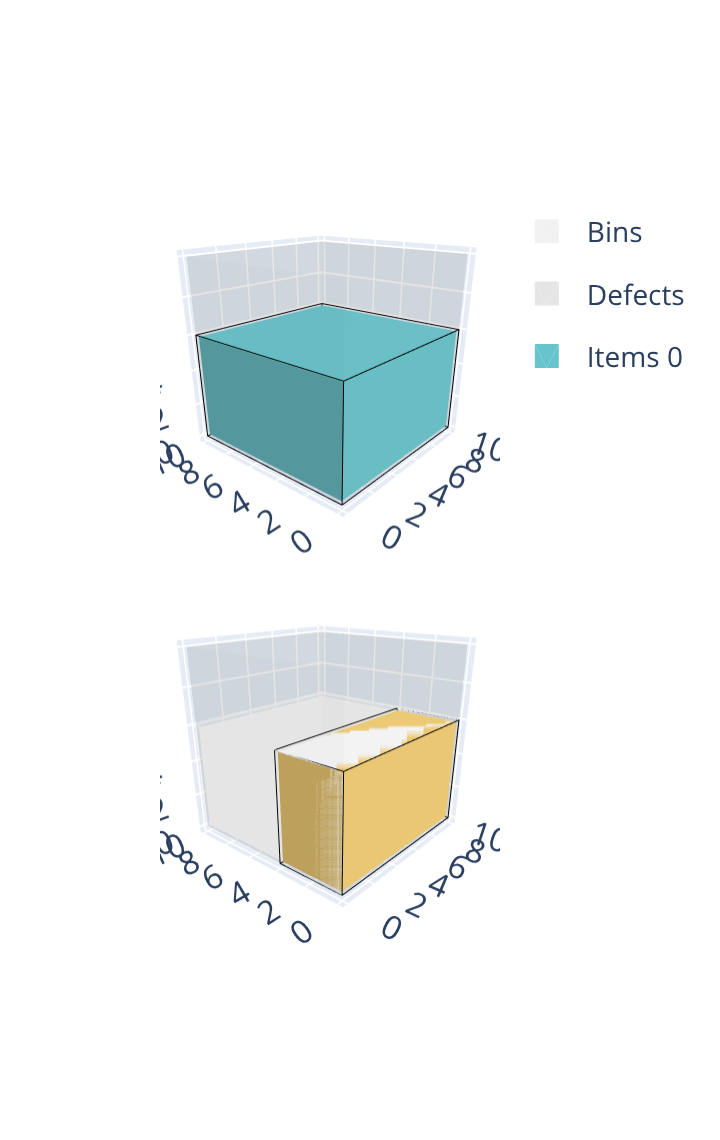
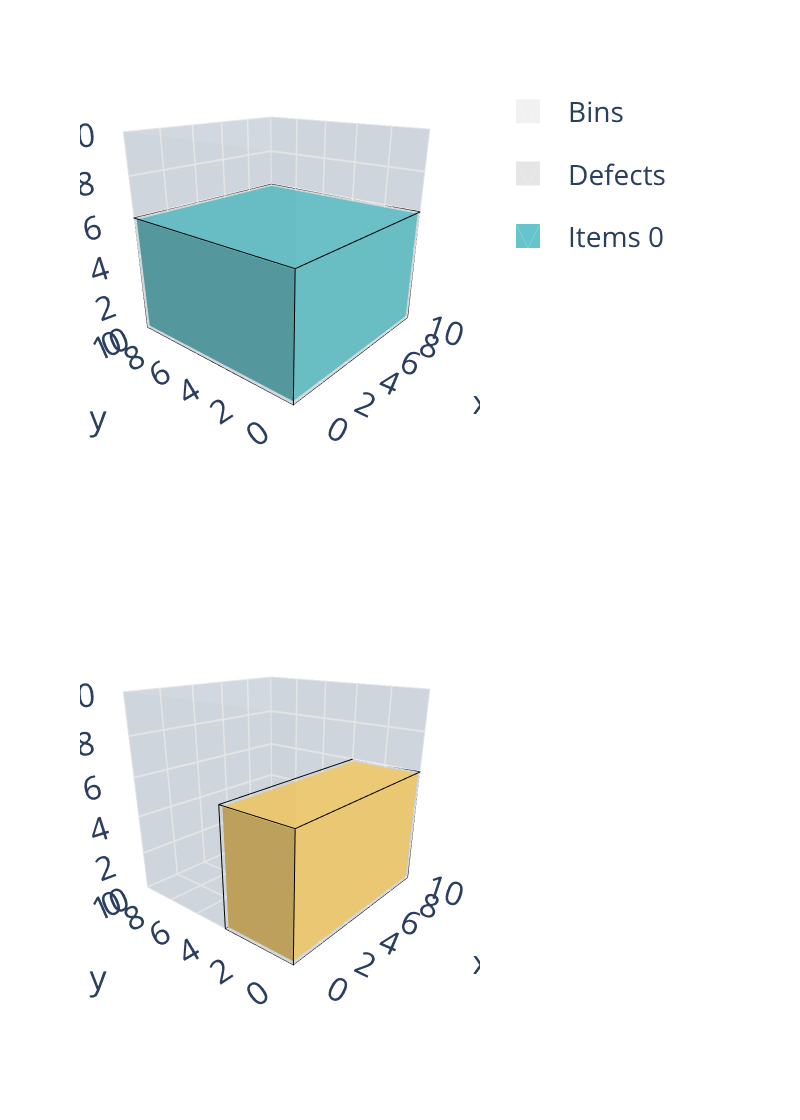
visualize: export each bin of a box solution separately
In a plotly figure with several 3D scenes, the depth of the items of a
scene may hide the items of the next ones: in the PNG exports of the box
solutions with several bins, the items of the second bin were partly
hidden where the items of the first bin are.

- 'packingsolver.visualize.box.figure' gets a 'bins' parameter to draw
  only some bins, at the scale of all the bins.
- 'scripts/visualize_box.py' exports each bin as a separate figure, with
  fixed margins, and assembles the images in a grid.
- Regenerate the images of the rotation and maximum weight examples.

diff --git a/scripts/visualize_box.py b/scripts/visualize_box.py
@@ -24,34 +24,67 @@ parser.add_argument('--autocrop', action='store_true', help='crop exported PNG t
 parser.add_argument('--no-legend', action='store_true', help='hide the legend, freeing up space for the plot itself')
 args = parser.parse_args()
 
-fig = visualize_box.figure(
-        args.csvpath,
-        item_color=args.itemcolor,
-        columns=args.columns,
-        zoom=args.zoom,
-        legend=not args.no_legend)
-
 if args.output:
-    bin_traces = [trace for trace in fig.data if trace.name == "Bins"]
-    m = len(bin_traces)
+    import csv
+    import io
+    from PIL import Image, ImageChops
+
+    # Each bin is exported as a separate figure, and the images are assembled
+    # in a grid: in a figure with several 3D scenes, the depth of the items
+    # of a scene may hide the items of the next ones.
+    with open(args.csvpath, newline='') as csvfile:
+        rows = list(csv.DictReader(csvfile))
+    bins = [row for row in rows if row["TYPE"] == "BIN"]
+    m = len(bins)
     number_of_cols = args.columns if args.columns is not None else math.ceil(math.sqrt(m))
     number_of_rows = math.ceil(m / number_of_cols)
-    max_bin_lx = max([0] + [max(trace.x) - min(trace.x) for trace in bin_traces])
-    max_bin_ly = max([0] + [max(trace.y) - min(trace.y) for trace in bin_traces])
-    cell_width = int(max_bin_lx * args.scale)
-    cell_height = int(max_bin_ly * args.scale)
-    export_width = args.width if args.width is not None else number_of_cols * cell_width + 160
-    export_height = args.height if args.height is not None else number_of_rows * cell_height + 170
-    fig.write_image(args.output, width=export_width, height=export_height, scale=2)
+    max_bin_lx = max([0] + [int(row["LX"]) for row in bins])
+    max_bin_ly = max([0] + [int(row["LY"]) for row in bins])
+    # Size of the plot area of each bin, and fixed margins, with room on the
+    # right for the legend, so that the scenes have the same size whether
+    # their figure has the legend or not.
+    margin_left, margin_top, margin_bottom = 40, 40, 40
+    margin_right = 40 if args.no_legend else 160
+    plot_width = int(max_bin_lx * args.scale)
+    plot_height = int(max_bin_ly * args.scale)
+    if args.width is not None:
+        plot_width = (args.width - margin_left - margin_right) // number_of_cols
+    if args.height is not None:
+        plot_height = (args.height - margin_top - margin_bottom) // number_of_rows
+    image_width = plot_width + margin_left + margin_right
+    image_height = plot_height + margin_top + margin_bottom
+    images = []
+    for bin_pos in range(m):
+        fig = visualize_box.figure(
+                args.csvpath,
+                item_color=args.itemcolor,
+                columns=1,
+                zoom=args.zoom,
+                legend=(not args.no_legend and bin_pos == 0),
+                bins=[bin_pos])
+        fig.update_layout(margin=dict(
+                l=margin_left, r=margin_right, t=margin_top, b=margin_bottom))
+        stream = io.BytesIO(fig.to_image(
+                format="png", width=image_width, height=image_height, scale=2))
+        images.append(Image.open(stream).convert("RGB"))
+    image_width, image_height = images[0].size
+    im = Image.new("RGB", (number_of_cols * image_width, number_of_rows * image_height), (255, 255, 255))
+    for bin_pos, image in enumerate(images):
+        im.paste(image, ((bin_pos % number_of_cols) * image_width, (bin_pos // number_of_cols) * image_height))
     if args.autocrop:
-        from PIL import Image, ImageChops
         margin = 20
-        im = Image.open(args.output).convert("RGB")
         bbox = ImageChops.difference(im, Image.new("RGB", im.size, (255, 255, 255))).getbbox()
         if bbox is not None:
             x1, y1, x2, y2 = bbox
             x1, y1 = max(0, x1 - margin), max(0, y1 - margin)
             x2, y2 = min(im.width, x2 + margin), min(im.height, y2 + margin)
-            im.crop((x1, y1, x2, y2)).save(args.output)
+            im = im.crop((x1, y1, x2, y2))
+    im.save(args.output)
 else:
+    fig = visualize_box.figure(
+            args.csvpath,
+            item_color=args.itemcolor,
+            columns=args.columns,
+            zoom=args.zoom,
+            legend=not args.no_legend)
     fig.show()

diff --git a/python/packingsolver/visualize/box.py b/python/packingsolver/visualize/box.py
@@ -25,7 +25,8 @@ def figure(
         item_color="ID",
         columns=None,
         zoom=1.0,
-        legend=True):
+        legend=True,
+        bins=None):
     """Build the figure of a box solution certificate.
 
     Args:
@@ -36,6 +37,8 @@ def figure(
         zoom: camera zoom factor (higher: closer/bigger)
         legend: show the legend; if False, hide the legend, freeing up space
             for the plot itself
+        bins: positions of the bins to draw, all of them by default; the
+            scale is the one of all the bins of the certificate
 
     Returns:
         plotly.graph_objects.Figure
@@ -168,7 +171,8 @@ def figure(
                 item_ids_z[i].append((z1 + z2) / 2)
                 item_ids[i].append(id_)
 
-    m = len(bins_x)
+    bin_positions = list(range(len(bins_x))) if bins is None else list(bins)
+    m = len(bin_positions)
     colors = px.colors.qualitative.Pastel
     number_of_cols = columns if columns is not None else math.ceil(math.sqrt(m))
     number_of_rows = math.ceil(m / number_of_cols)
@@ -179,9 +183,9 @@ def figure(
             specs=[[{'type': 'mesh3d'} for _ in range(number_of_cols)] for _ in range(number_of_rows)],
             vertical_spacing=0.001)
 
-    for i in range(0, m):
-        row = (i // number_of_cols) + 1
-        col = (i % number_of_cols) + 1
+    for subplot_pos, i in enumerate(bin_positions):
+        row = (subplot_pos // number_of_cols) + 1
+        col = (subplot_pos % number_of_cols) + 1
 
         fig.add_trace(go.Mesh3d(
             x=bins_x[i],
@@ -192,7 +196,7 @@ def figure(
             k=bins_k[i],
             name="Bins",
             legendgroup="bins",
-            showlegend=(i == 0),
+            showlegend=(subplot_pos == 0),
             opacity=0.1,
             color="grey",
             flatshading=True),
@@ -208,7 +212,7 @@ def figure(
             k=defects_k[i],
             name="Defects",
             legendgroup="defects",
-            showlegend=(i == 0),
+            showlegend=(subplot_pos == 0),
             opacity=0.2,
             color="grey",
             flatshading=True),
@@ -229,7 +233,7 @@ def figure(
                 k=items_k[i][k],
                 name="Items" if item_color == 'SAME' else f"Items {item_ids[i][k]}",
                 legendgroup="items",
-                showlegend=(i == 0 and k == 0),
+                showlegend=(subplot_pos == 0 and k == 0),
                 opacity=1,
                 flatshading=True,
                 color=color),

diff --git a/python/tests/test_visualize_box.py b/python/tests/test_visualize_box.py
@@ -68,3 +68,20 @@ def test_figure_options():
 def test_figure_unknown_item_color():
     with pytest.raises(ValueError):
         figure(certificate_path(CERTIFICATES[0]), item_color="FOO")
+
+
+def test_figure_bins():
+    path = certificate_path(CERTIFICATES[1])
+    number_of_bins, _ = count_rows(path)
+    assert number_of_bins >= 2
+    with open(path, newline='') as f:
+        rows = list(csv.DictReader(f))
+    number_of_items_in_bin_1 = sum(
+            1 for row in rows if row["TYPE"] == "ITEM" and row["BIN"] == "1")
+    fig = figure(path, bins=[1])
+    # Only the traces of bin 1, with the legend entries.
+    assert len(fig.data) == 4 + number_of_items_in_bin_1
+    assert fig.data[0].name == "Bins"
+    assert fig.data[0].showlegend
+    # The scale is the one of all the bins.
+    assert fig.layout.scene.xaxis.range == figure(path).layout.scene.xaxis.range
